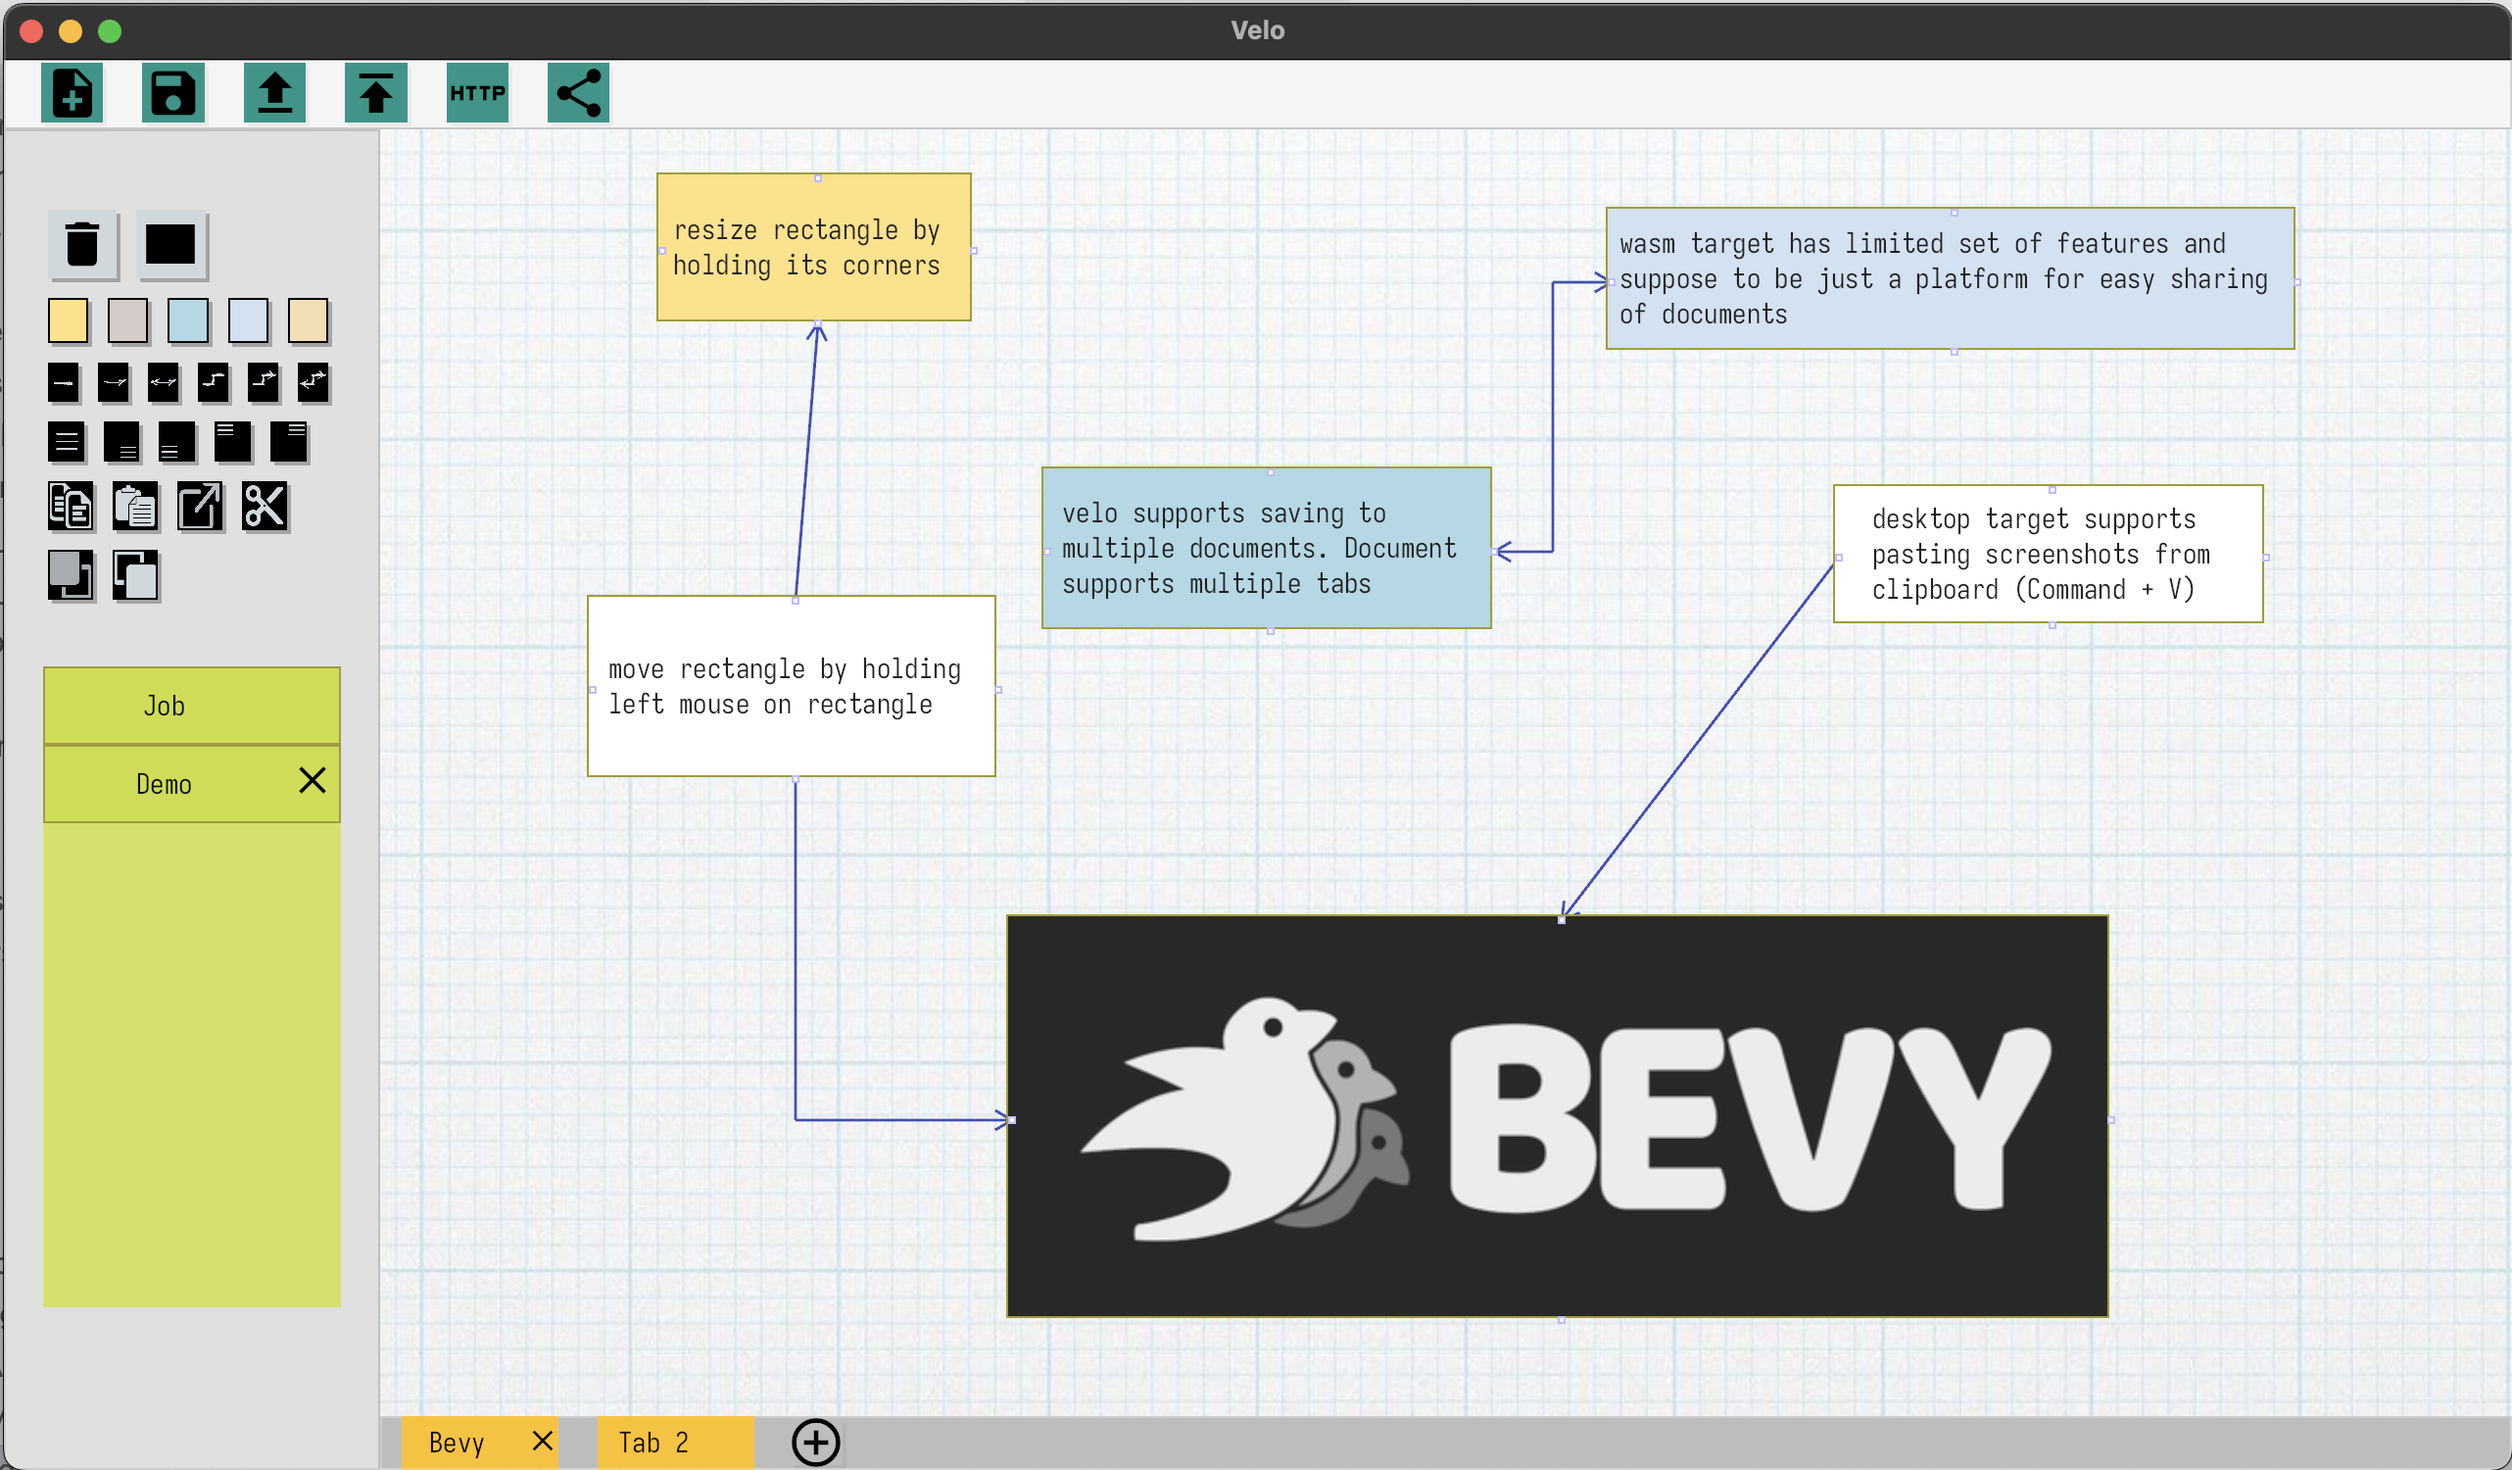
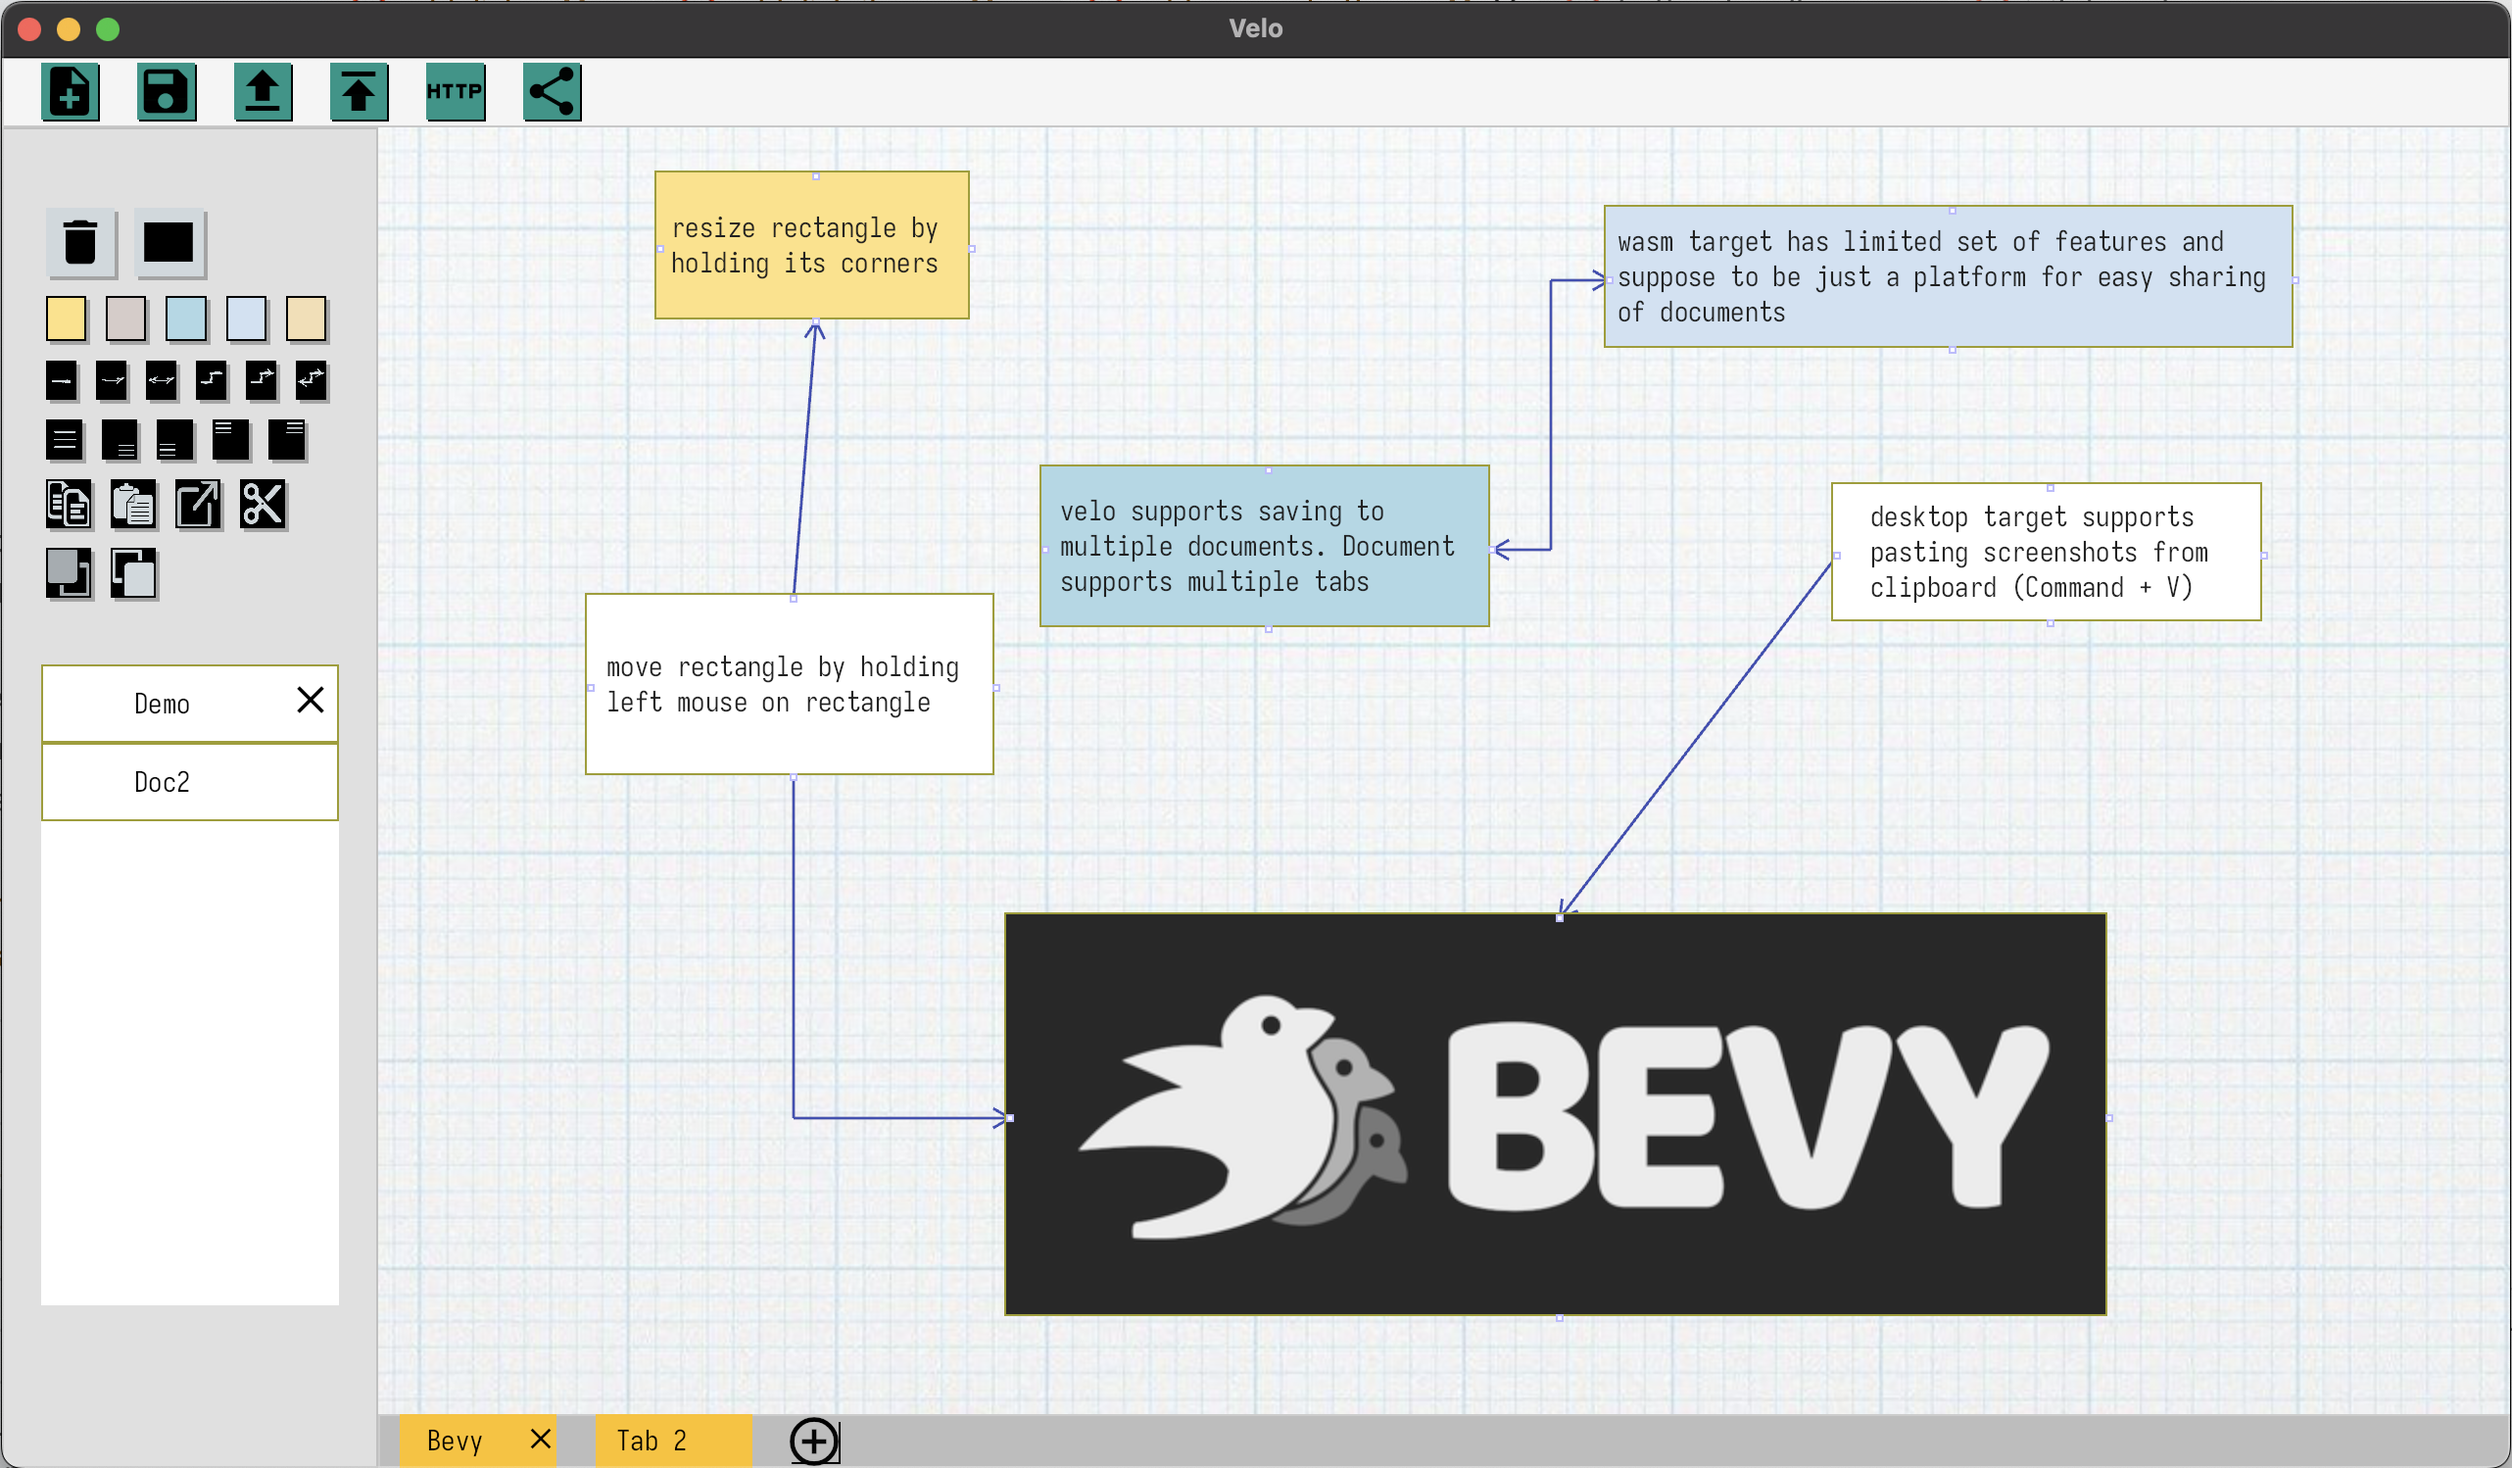
Adjust color of doc list

diff --git a/src/chart_plugin/systems/init_layout/add_menu_button.rs b/src/chart_plugin/systems/init_layout/add_menu_button.rs
@@ -1,4 +1,5 @@
 use bevy::{prelude::*, text::BreakLineOn};
+use bevy_ui_borders::BorderColor;
 
 use crate::chart_plugin::ui_helpers::{get_tooltip, GenericButton, Tooltip};
 
@@ -24,22 +25,26 @@ pub fn add_menu_button(
         _ => Color::rgb(0.0 / 255.0, 150.0 / 255.0, 136.0 / 255.0),
     };
     let top = commands
-        .spawn(NodeBundle {
-            background_color: Color::BLACK.with_a(0.1).into(),
-            style: Style {
-                flex_direction: FlexDirection::Column,
-                align_self: AlignSelf::Stretch,
-                margin: UiRect {
-                    left: Val::Px(10.),
-                    right: Val::Px(10.),
-                    top: Val::Px(3.),
-                    bottom: Val::Px(2.),
+        .spawn((
+            NodeBundle {
+                background_color: Color::BLACK.with_a(0.1).into(),
+                style: Style {
+                    flex_direction: FlexDirection::Column,
+                    align_self: AlignSelf::Stretch,
+                    border: UiRect::all(Val::Px(1.)),
+                    margin: UiRect {
+                        left: Val::Px(10.),
+                        right: Val::Px(10.),
+                        top: Val::Px(3.),
+                        bottom: Val::Px(3.),
+                    },
+                    size: Size::new(Val::Percent(2.3), Val::Percent(85.)),
+                    ..default()
                 },
-                size: Size::new(Val::Percent(2.5), Val::Percent(90.)),
                 ..default()
             },
-            ..default()
-        })
+            BorderColor(Color::BLACK),
+        ))
         .id();
     let button = commands
         .spawn((

diff --git a/src/chart_plugin/ui_helpers/add_list_item.rs b/src/chart_plugin/ui_helpers/add_list_item.rs
@@ -34,7 +34,7 @@ pub fn add_list_item(
     let root = commands
         .spawn((
             ButtonBundle {
-                background_color: Color::rgb(205.0 / 255.0, 220.0 / 255.0, 57.0 / 255.0).into(),
+                background_color: Color::rgb(255., 242., 230.).into(),
                 style: Style {
                     size: Size::new(Val::Percent(100.), Val::Percent(100.)),
                     justify_content: JustifyContent::Center,
@@ -52,7 +52,7 @@ pub fn add_list_item(
     let doc_button = commands
         .spawn((
             ButtonBundle {
-                background_color: Color::rgb(205.0 / 255.0, 220.0 / 255.0, 57.0 / 255.0).into(),
+                background_color: Color::rgb(255., 242., 230.).into(),
                 style: Style {
                     size: Size::new(Val::Percent(90.), Val::Percent(100.)),
                     justify_content: JustifyContent::Center,
@@ -107,7 +107,7 @@ pub fn add_list_item(
                 } else {
                     Visibility::Hidden
                 },
-                background_color: Color::rgb(205.0 / 255.0, 220.0 / 255.0, 57.0 / 255.0).into(),
+                background_color: Color::rgb(255., 242., 230.).into(),
                 style: Style {
                     margin: UiRect {
                         left: Val::Px(3.),

diff --git a/src/chart_plugin/systems/init_layout/add_list.rs b/src/chart_plugin/systems/init_layout/add_list.rs
@@ -36,7 +36,7 @@ pub fn add_list(
                 overflow: Overflow::Hidden,
                 ..default()
             },
-            background_color: Color::rgb(212.0 / 255.0, 225.0 / 255.0, 87.0 / 255.0).into(),
+            background_color: Color::rgb(158., 158., 158.).into(),
             ..default()
         })
         .id();
